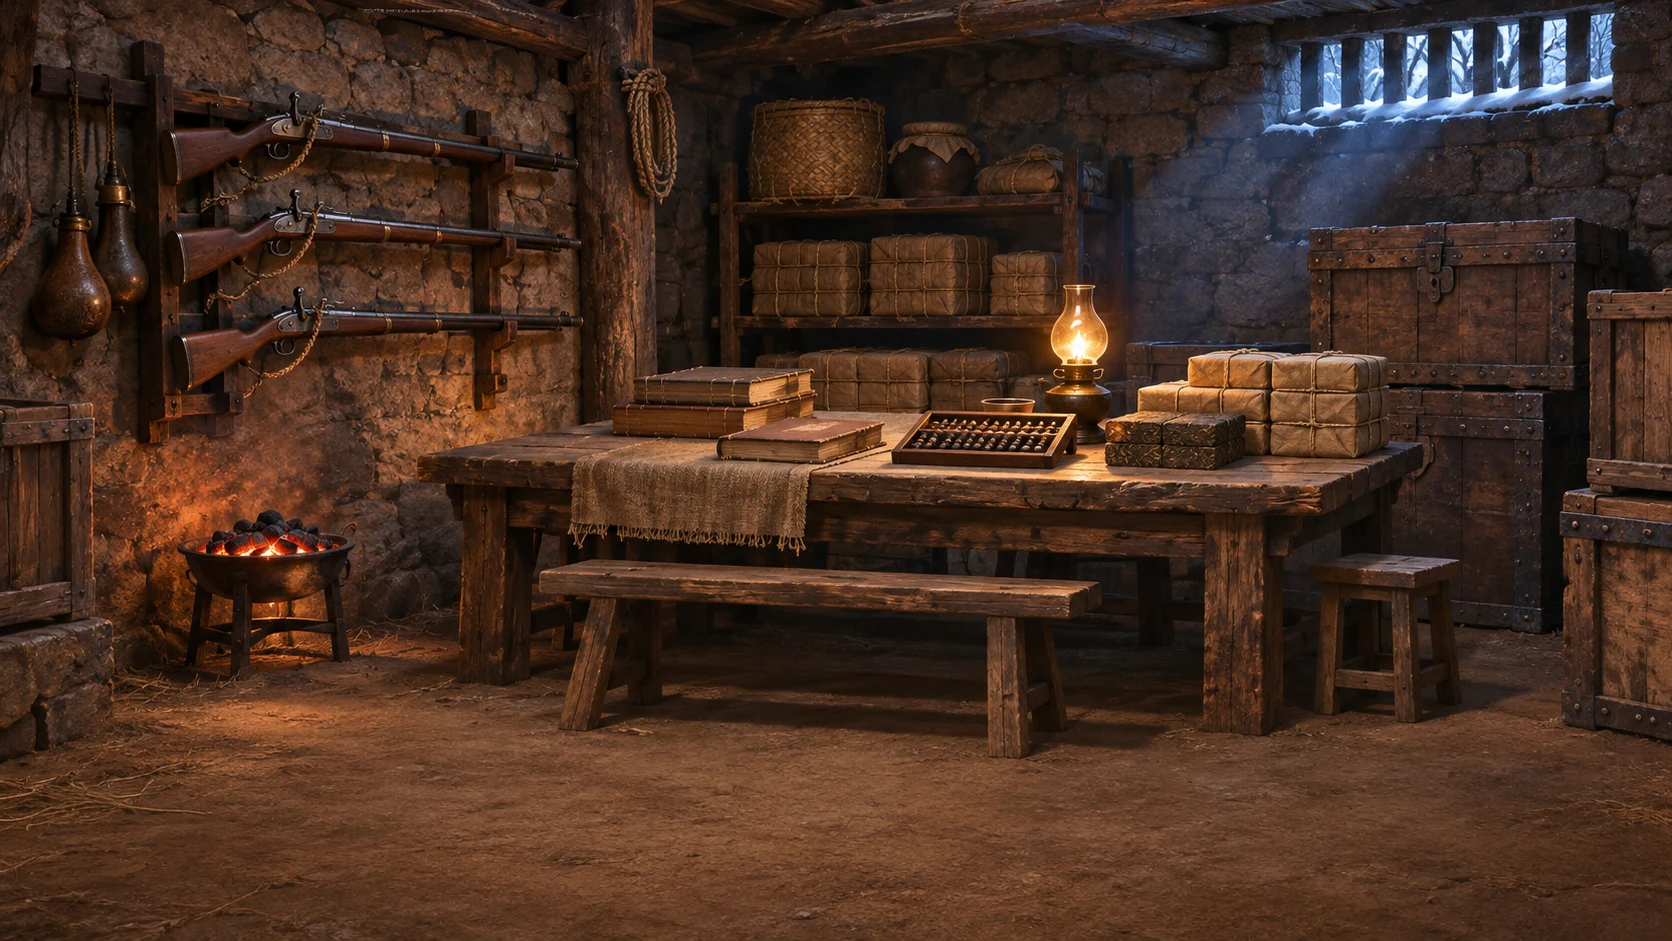
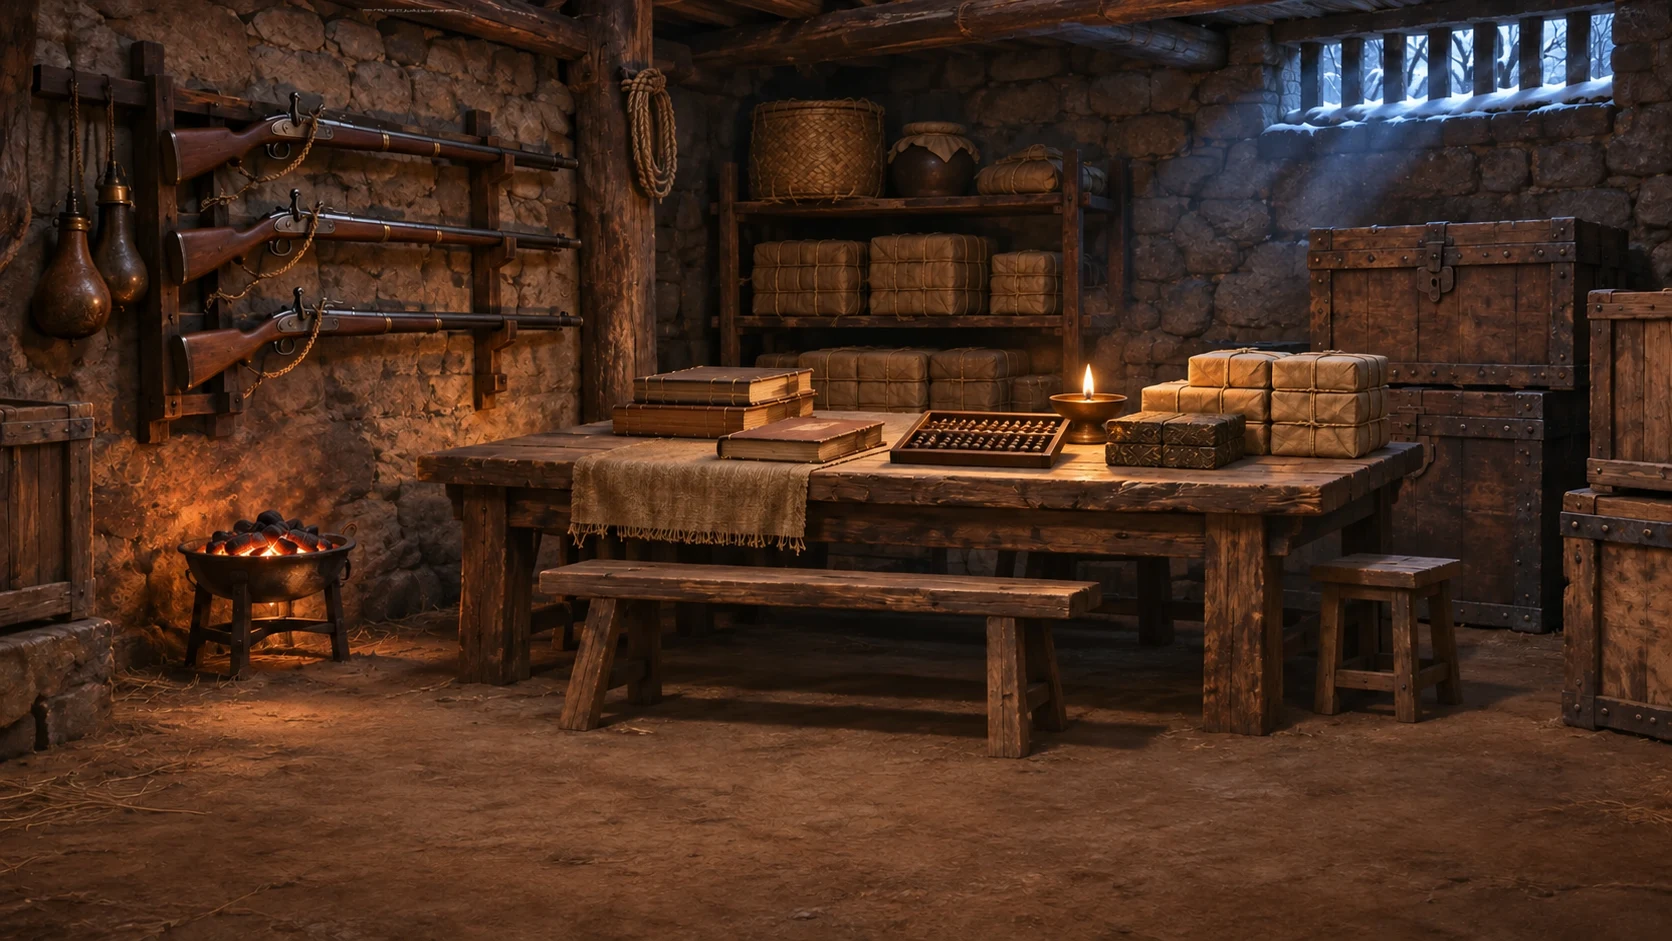
Fix period details in first batch backgrounds

diff --git a/data/illustrations/catalog-data.js b/data/illustrations/catalog-data.js
@@ -67,8 +67,8 @@
         "width": 1672,
         "height": 941
       },
-      "webBytes": 336504,
[1 lines of base64/hex data omitted]
+      "webBytes": 248336,
[1 lines of base64/hex data omitted]
     },
     {
       "id": "ming_bg_artillery_yard",
@@ -1455,8 +1455,8 @@
         "width": 1672,
         "height": 941
       },
-      "webBytes": 324300,
[1 lines of base64/hex data omitted]
+      "webBytes": 256198,
[1 lines of base64/hex data omitted]
     },
     {
       "id": "nanming_battle",
@@ -1522,8 +1522,8 @@
         "width": 1672,
         "height": 941
       },
-      "webBytes": 336656,
[1 lines of base64/hex data omitted]
+      "webBytes": 273276,
[1 lines of base64/hex data omitted]
     },
     {
       "id": "nanming_bg_chengtian_fields",
@@ -11228,8 +11228,8 @@
         "width": 1672,
         "height": 941
       },
-      "webBytes": 313134,
[1 lines of base64/hex data omitted]
+      "webBytes": 292428,
[1 lines of base64/hex data omitted]
     }
   ],
   "aliases": {},
